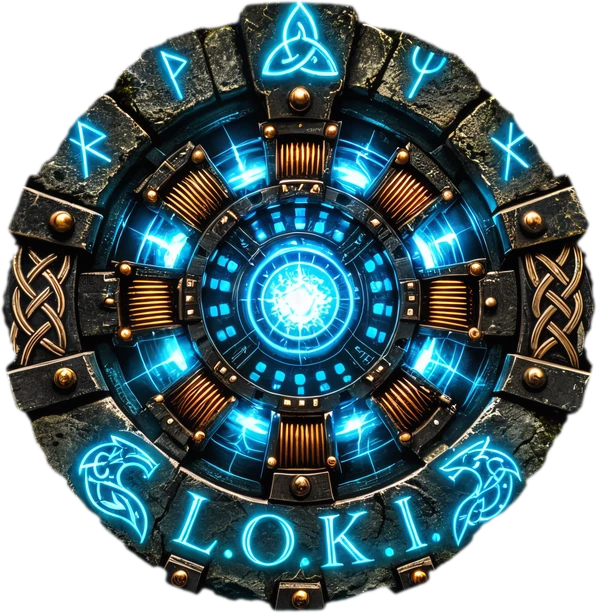
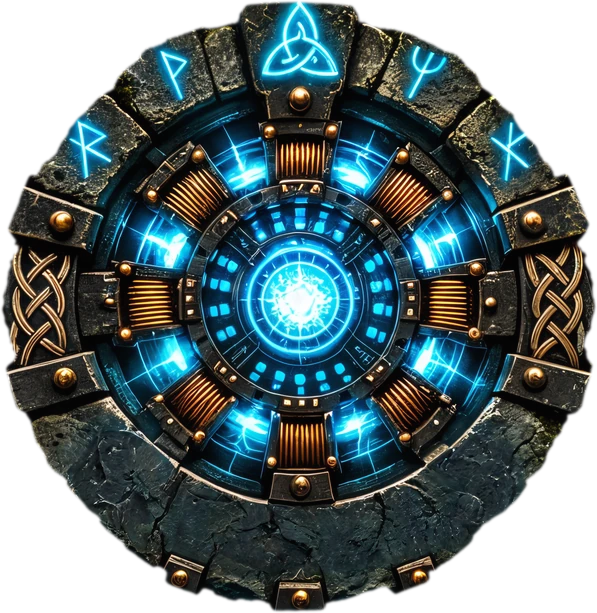
Szene: L.O.K.I.-Schriftzug und Drachen kleiner (Stein per Magnific nachgemalt, Leuchtschrift verkleinert wieder aufgelegt), volle Bedeutung gebogen unter dem Steinring; Wellenringe laufen wie nach einem Steinwurf nach außen; Rauch nur unter dem Reaktor statt Nebel über dem ganzen See

Changed region(s): [[0.0905, 0.6819, 0.8744, 0.9608]]

diff --git a/hud5/szene.js b/hud5/szene.js
@@ -77,18 +77,6 @@ function randMaske(b, h, rand, unten = 0) {
   return c
 }
 
-/** Maske für den Nebel auf dem See: unter dem Reaktor am dichtesten, zu den Seiten dünner, oben (Wasserlinie) weich */
-function nebelMaske(b, h) {
-  const c = leinwand(b, h), g = c.getContext('2d'), v = g.createLinearGradient(0, 0, b, 0)
-  v.addColorStop(0, 'rgba(0,0,0,0)'); v.addColorStop(0.1, 'rgba(0,0,0,0.6)'); v.addColorStop(0.32, '#000')
-  v.addColorStop(0.68, '#000'); v.addColorStop(0.9, 'rgba(0,0,0,0.6)'); v.addColorStop(1, 'rgba(0,0,0,0)')
-  g.fillStyle = v; g.fillRect(0, 0, b, h)
-  g.globalCompositeOperation = 'destination-in'
-  const u = g.createLinearGradient(0, 0, 0, h); u.addColorStop(0, 'rgba(0,0,0,0)'); u.addColorStop(0.12, '#000'); u.addColorStop(1, '#000')
-  g.fillStyle = u; g.fillRect(0, 0, b, h)
-  return c
-}
-
 /** Spiegelbild des Reaktors im See (einmal vorgezeichnet): gespiegelt, mit der Tiefe ausblendend */
 function spiegelBild(bild, e) {
   const hoehe = H - HORIZONT, c = leinwand(e.b, hoehe), g = c.getContext('2d')
@@ -140,7 +128,6 @@ export async function ladeSzene(basis) {
   const bilder = Object.fromEntries(await Promise.all(namen.map(async (n) => [n, await bildLaden(basis + n + '.webp')])))
   const zufall = zufallsfolge(7)
   const ringMitte = ringBild(geo.ringMitte.r, 30, 24)
-  const nebelB = 5200 // Nebel über fast die ganze Seebreite (Wunsch: mehr nach links/rechts und nach unten)
   return {
     geo, bilder,
     ringMitte, ringMitteMaske: ringMaske(ringMitte.width), ringPuffer: leinwand(ringMitte.width, ringMitte.height),
@@ -149,7 +136,8 @@ export async function ladeSzene(basis) {
     bahnRechts: bahnVorbereiten(geo.bahnRechts, false),
     nebel: nebelBild(2400, 300, zufall),
     nebel2: nebelBild(2400, 300, zufall, 60),
-    nebelStreifen: leinwand(nebelB, H - HORIZONT + 12), nebelMaske: nebelMaske(nebelB, H - HORIZONT + 12),
+    rauchStreifen: leinwand(1900, 260), rauchMaske: rauchMaske(1900, 260),
+    bedeutung: bedeutungBild(),
     spiegel: geo.ebenen.reaktor ? spiegelBild(bilder.reaktor, geo.ebenen.reaktor) : null,
     blitze: [], naechsterBlitz: 0,
   }
@@ -208,20 +196,80 @@ function wasser(g, s, t, anteil) {
   g.globalAlpha = 1; g.globalCompositeOperation = 'source-over'
 }
 
-/** Nebelschwaden auf dem Wasser (Rückmeldung Auftraggeber 05.11.2026: nur auf dem See, unterhalb des Reaktors recht
- *  dicht; der Reaktor bleibt klar) – drei Lagen in verschiedenem Tempo, oben und an den Seiten weich ausgeblendet */
-function nebel(g, s, t, anteil) {
-  const st = s.nebelStreifen, sg = st.getContext('2d'), x0 = 2880 - st.width / 2, y = HORIZONT - 12
+// Unter dem Reaktor (Rückmeldung Auftraggeber 05.11.2026): keine Nebelfläche über dem ganzen See, sondern Rauchwolken
+// nur zwischen Reaktor und Wasser rund um die Lichtringe; die Ringe laufen sanft von innen nach außen wie Wellen nach
+// einem Steinwurf, der Rauch liegt darüber.
+const RING_MITTE = { x: 2880, y: 890 }, RING_RX = 600, RING_RY = 46 // Lichtringe auf dem Wasser (Grundbild)
+
+/** Wellenringe: alle 2,6 s ein neuer, wächst von innen nach außen, wird dabei dünner und blasser */
+function wellen(g, t, anteil) {
+  if (anteil <= 0) return
+  const takt = 2.6, lebens = 7.5
+  g.save(); g.globalCompositeOperation = 'lighter'
+  for (let k = Math.floor((t - lebens) / takt) + 1; k * takt <= t; k++) {
+    const f = (t - k * takt) / lebens
+    if (f < 0 || f > 1) continue
+    const rx = 30 + f * RING_RX * 1.05, ry = rx * (RING_RY / RING_RX)
+    const deck = anteil * Math.min(1, f / 0.08) * (1 - f) ** 1.6
+    for (const [breite, farbe, d] of [[9, 'rgba(95,246,255,1)', 0.12], [3, 'rgba(150,250,255,1)', 0.35], [1.2, '#eaffff', 0.7]]) {
+      g.beginPath(); g.ellipse(RING_MITTE.x, RING_MITTE.y, rx, ry, 0, 0, Math.PI * 2)
+      g.lineWidth = breite * (1 - f * 0.5); g.strokeStyle = farbe; g.globalAlpha = deck * d; g.stroke()
+    }
+  }
+  g.restore()
+}
+
+/** Rauch zwischen Reaktor und Wasser: weiche Wolken, die langsam um die Mitte treiben, zusammengehalten von einer
+ *  elliptischen Maske (dicht in der Mitte, zum Rand weich) – der Reaktor darüber bleibt frei */
+function rauch(g, s, t, anteil) {
+  if (anteil <= 0) return
+  const st = s.rauchStreifen, sg = st.getContext('2d')
   sg.globalCompositeOperation = 'source-over'; sg.clearRect(0, 0, st.width, st.height)
-  for (const [bild, tempo, dy, hoch, deck] of [[s.nebel, 11, -70, 0.9, 1], [s.nebel2, -6, -20, 0.9, 1], [s.nebel, 4, 40, 0.8, 0.9], [s.nebel2, 8, 100, 0.8, 0.8]]) {
+  for (const [bild, tempo, dy, hoch, deck] of [[s.nebel, 9, -40, 1.1, 1], [s.nebel2, -7, 0, 1.0, 1], [s.nebel, 5, 50, 0.9, 0.9], [s.nebel2, -3, -90, 1.2, 0.8]]) {
     sg.globalAlpha = deck
     const start = -(((t * tempo) % bild.width) + bild.width) % bild.width
     for (let px = start; px < st.width; px += bild.width) sg.drawImage(bild, px, dy, bild.width, bild.height * hoch)
   }
-  sg.globalAlpha = 1; sg.globalCompositeOperation = 'destination-in'; sg.drawImage(s.nebelMaske, 0, 0)
-  g.globalAlpha = anteil; g.globalCompositeOperation = 'screen'
-  g.drawImage(st, x0, y); g.globalAlpha = anteil * 0.6; g.drawImage(st, x0, y) // zweimal: dichter
+  sg.globalAlpha = 1; sg.globalCompositeOperation = 'destination-in'; sg.drawImage(s.rauchMaske, 0, 0)
+  g.globalCompositeOperation = 'screen'
+  for (const d of [1, 0.7]) { g.globalAlpha = anteil * d; g.drawImage(st, RING_MITTE.x - st.width / 2, RING_MITTE.y - st.height * 0.62) }
   g.globalAlpha = 1; g.globalCompositeOperation = 'source-over'
+}
+
+/** elliptische Maske für den Rauch: Mitte dicht, Rand weich, oben (zum Reaktor) schneller ausgeblendet */
+function rauchMaske(b, h) {
+  const c = leinwand(b, h), g = c.getContext('2d')
+  g.save(); g.translate(b / 2, h * 0.62); g.scale(1, (h * 0.5) / (b / 2))
+  const v = g.createRadialGradient(0, 0, 0, 0, 0, b / 2)
+  v.addColorStop(0, '#000'); v.addColorStop(0.45, 'rgba(0,0,0,0.85)'); v.addColorStop(1, 'rgba(0,0,0,0)')
+  g.fillStyle = v; g.fillRect(-b / 2, -b, b, 2 * b); g.restore()
+  g.globalCompositeOperation = 'destination-in'
+  const u = g.createLinearGradient(0, 0, 0, h); u.addColorStop(0, 'rgba(0,0,0,0)'); u.addColorStop(0.35, '#000'); u.addColorStop(1, '#000')
+  g.fillStyle = u; g.fillRect(0, 0, b, h)
+  return c
+}
+
+/** volle Bedeutung von L.O.K.I. direkt unter dem Steinring, ihm folgend gebogen (im Steinband selbst war neben
+ *  Schriftzug, Drachen und Metallplatten kein Platz) */
+const BEDEUTUNG = 'LOKALE · OHNEHIN · KLÜGERE · INTELLIGENZ', BEDEUTUNG_R = 348
+function bedeutungBild(r) {
+  const gr = Math.ceil((BEDEUTUNG_R + 40) * 2), c = leinwand(gr, gr), g = c.getContext('2d')
+  g.translate(gr / 2, gr / 2)
+  g.font = '600 15px Georgia, "Times New Roman", serif'; g.textAlign = 'center'; g.textBaseline = 'middle'
+  const abstand = 1.6, breiten = [...BEDEUTUNG].map((z) => g.measureText(z).width + abstand)
+  const gesamt = breiten.reduce((a, b) => a + b, 0) / BEDEUTUNG_R
+  for (let d = 0; d < 2; d++) {
+    let w = Math.PI / 2 + gesamt / 2 // unten mittig, von links nach rechts lesbar (Buchstaben-Kopf zur Mitte)
+    g.fillStyle = d ? '#e6feff' : '#5ff6ff'; g.shadowColor = '#5ff6ff'; g.shadowBlur = d ? 4 : 10
+    for (const [i, z] of [...BEDEUTUNG].entries()) {
+      const halb = breiten[i] / 2 / BEDEUTUNG_R
+      w -= halb
+      g.save(); g.translate(Math.cos(w) * BEDEUTUNG_R, Math.sin(w) * BEDEUTUNG_R); g.rotate(w - Math.PI / 2); g.fillText(z, 0, 0); g.restore()
+      w -= halb
+    }
+  }
+  void r
+  return c
 }
 
 /**
@@ -389,6 +437,17 @@ function mittelRing(g, s, winkel, alpha) {
   g.globalAlpha = 1; g.globalCompositeOperation = 'source-over'
 }
 
+/** verkleinerter L.O.K.I.-Schriftzug mit Drachen (atmet leicht mit dem Kern) und die volle Bedeutung darunter */
+function schrift(g, s, t, anteil) {
+  if (anteil <= 0) return
+  const hell = anteil * (0.9 + 0.1 * Math.sin((t * Math.PI * 2) / 2.8))
+  ebene(g, s, 'schrift', hell)
+  const b = s.bedeutung, r = s.geo.reaktor
+  g.globalAlpha = hell * 0.95; g.globalCompositeOperation = 'lighter'
+  g.drawImage(b, r.x - b.width / 2, r.y - b.height / 2)
+  g.globalAlpha = 1; g.globalCompositeOperation = 'source-over'
+}
+
 /**
  * Ein Bild zeichnen. t = Sekunden. opt:
  *  versatz  – waagerechte Verschiebung (einzelner Bildschirm: 1920 → nur die Mitte)
@@ -407,8 +466,10 @@ export function zeichneSzene(g, s, t, opt = {}) {
   // aufsteigender Rauch hinter dem Reaktor entfernt (Rückmeldung Auftraggeber 05.11.2026: Reaktor soll klar bleiben)
   ebene(g, s, 'reaktor', an.grund, 'source-over') // deckt den Rauch hinter dem Reaktor ab
   wasser(g, s, t, an.reaktor)
-  nebel(g, s, t, an.nebel)
+  wellen(g, t, an.reaktor)
+  rauch(g, s, t, an.nebel)
   reaktor(g, s, t, opt, an.reaktor)
+  schrift(g, s, t, an.reaktor)
 
   const denkt = opt.loki === 'denkt' ? 1 : 0
   const hell = an.runen * (0.85 + 0.15 * Math.sin(t * 0.63))

diff --git a/scripts/grafik-v5-aufbereiten.py b/scripts/grafik-v5-aufbereiten.py
@@ -45,6 +45,28 @@ if len(sys.argv) > 1:
     gross = Image.open(sys.argv[1]).convert('RGB'); quelle = 'magnific'
 else:
     gross = esrgan(roh.resize((2896, 543), Image.LANCZOS)); quelle = 'esrgan'
+# Reaktor: „L.O.K.I.“ und Drachen kleiner (Wunsch Auftraggeber 05.11.2026). Magnific hat die Stelle im Ausschnitt
+# sauber zu Stein nachgemalt (grafik/magnific/reaktor_ohne_schrift.png, Ausschnitt laut reaktor_ausschnitt.json).
+# Die Leuchtschrift selbst = Unterschied alt − neu (additives Licht); sie wird verkleinert als eigene Ebene „schrift“
+# wieder aufgelegt, darunter schreibt die Szene die volle Bedeutung.
+schrift = None
+SCHRIFT_FAKTOR = 0.62
+if quelle == 'magnific' and os.path.exists('grafik/magnific/reaktor_ohne_schrift.png'):
+    box = json.load(open('grafik/magnific/reaktor_ausschnitt.json'))['box']
+    alt = np.asarray(gross.crop(box)).astype(np.int16)
+    neu = Image.open('grafik/magnific/reaktor_ohne_schrift.png').convert('RGB').resize((box[2] - box[0], box[3] - box[1]))
+    maske = np.asarray(Image.open('grafik/magnific/reaktor_maske.png').convert('L').resize(neu.size)) > 127
+    licht = np.clip((alt - np.asarray(neu).astype(np.int16)) * 1.5, 0, 255) * maske[..., None]  # etwas heller: kleiner wirkt sonst blass
+    gross = gross.copy(); gross.paste(neu, box[:2])
+    # Licht um die eigene Mitte verkleinern (bleibt mittig im Steinband, darunter Platz für die Bedeutung)
+    ys, xs = np.nonzero(licht.max(axis=2) > 20)
+    mx, my = (xs.min() + xs.max()) / 2, (ys.min() + ys.max()) / 2
+    l = Image.fromarray(licht.astype(np.uint8)); kb = (round(l.width * SCHRIFT_FAKTOR), round(l.height * SCHRIFT_FAKTOR))
+    klein = l.resize(kb, Image.LANCZOS)
+    schrift = Image.new('RGB', l.size)
+    schrift.paste(klein, (round(mx - mx * SCHRIFT_FAKTOR), round(my - my * SCHRIFT_FAKTOR + 24)))  # etwas tiefer: weg von den Spulen
+    gs = Image.new('RGB', gross.size); gs.paste(schrift, box[:2]); schrift = gs
+    print('Schrift im Reaktor: verkleinert auf', SCHRIFT_FAKTOR)
 grund = np.asarray(gross.resize((B, H), Image.LANCZOS)).copy()
 print('Grundbild', quelle, gross.size)
 
@@ -119,6 +141,10 @@ ausGrund('kernscheibe', kreis(-10, 98, 6))
 blau = (gf[..., 2] - gf[..., 0] - 60) / 80  # leuchtende blaue Zellen zwischen den Spulen
 ausGrund('zellen', np.clip(blau, 0, 1) * kreis(118, 215, 6))
 ebene('halo', monitore([None, FX + 'REACTOR_CORE_HALO_PULSE_RGBA_3840x2160.png', None]))
+if schrift is not None:  # additiv: Farbe = Licht, Deckkraft voll (die Szene legt sie mit „lighter“ auf)
+    a = np.asarray(schrift).astype(np.float32); al = a.max(axis=2)
+    farbe = np.clip(a * 255 / np.maximum(al, 1)[..., None], 0, 255)
+    s4 = Image.fromarray(np.dstack([farbe, al]).astype(np.uint8), 'RGBA'); ebene('schrift', s4)
 # Reaktor-Kern scharf aus dem Grundbild, Form aus der Kern-Maske (für das Pulsieren)
 kern = monitore([None, A + 'MITTE_REAKTOR_RING_01_ORIGINAL_PIXELS_3840x2160.png', None]).resize((B, H), Image.LANCZOS)
 kernScharf = Image.fromarray(grund).convert('RGBA'); kernScharf.putalpha(kern.getchannel('A')); ebene('kern', kernScharf)
